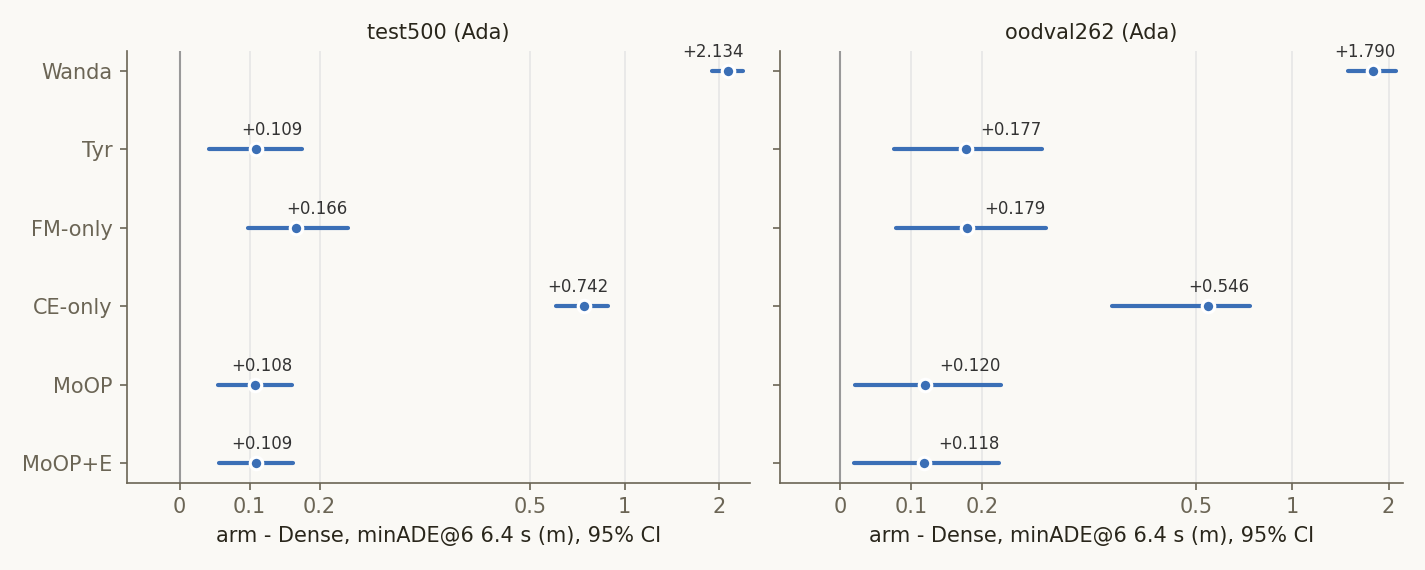
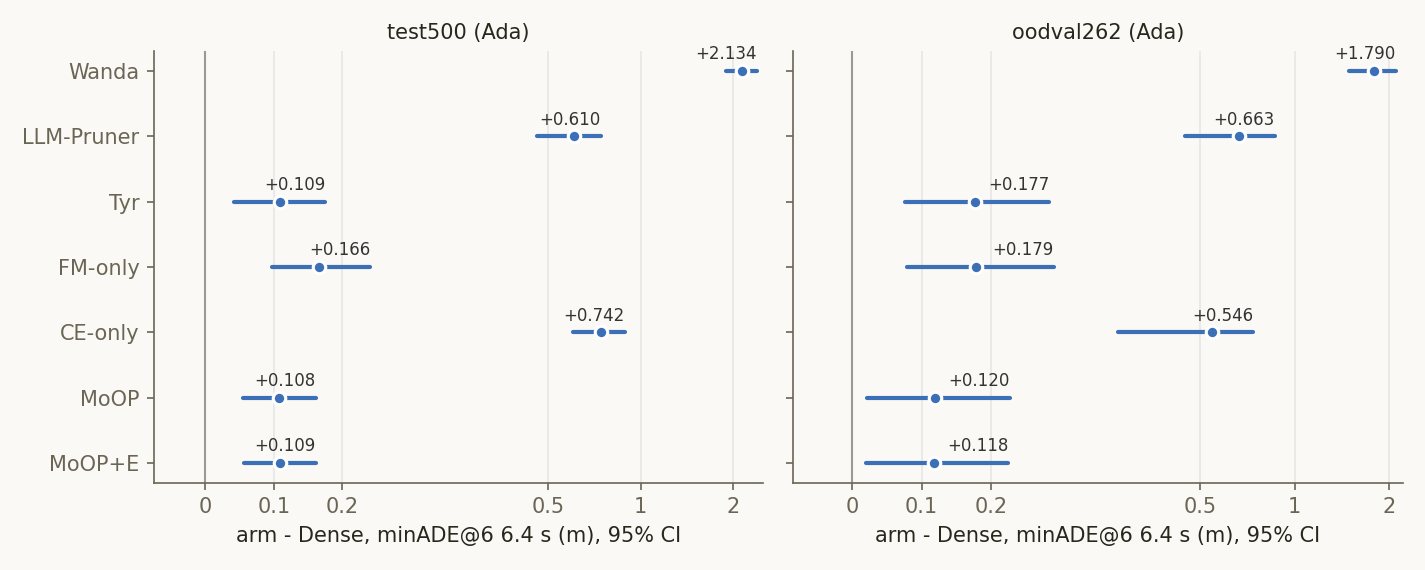
iclr27-rebuttal: CI report filled with the Ada re-runs (LLM-Pruner paper checkpoint, FM/CE short horizons; gates passed)

diff --git a/iclr27-rebuttal/reports/2026-11-09_openloop-lingoqa-ci.md b/iclr27-rebuttal/reports/2026-11-09_openloop-lingoqa-ci.md
@@ -1,34 +1,41 @@
 # Experiment: ICLR27 arm 개루프(Test500 · OOD-Val262) · LingoQA · CoC NLL의 95% CI
 
-2026-11-09 · 새 추론 없음(논문 표 1·표 4를 만든 Ada 런의 클립·질문별 기록을 다시 집계, CPU 81초)
-코드 `iclr27-rebuttal/code/ci_openloop_lingoqa.py`
-결과 `outputs/iclr27-rebuttal/ci_openloop_lingoqa/` (`summary.txt` = 아래 표 전체, `metrics.json`, `config.json`, `paired_minade6_vs_dense.png`)
+2026-11-09 · 논문 표 1·표 4를 만든 Ada 런의 클립·질문별 기록을 다시 집계(CPU)
+**개정(2026-11-09 밤):** 첫 판의 빈칸을 Ada 재실행으로 채웠다. 재실행 결과는 게이트를 통과한 경우에만 썼다(7절).
+- LLM-Pruner의 개루프 · LingoQA 행은 논문 체크포인트로 새로 돌렸다.
+- FM-only · CE-only의 1.6 · 3.2 s 칸을 채웠다.
+- 첫 판은 git 이력(`19d37e1`)에 있다.
+
+코드 `iclr27-rebuttal/code/ci_openloop_lingoqa.py`, 재실행 `iclr27-rebuttal/code/run_ada_fill.sh` · `gate_ada_fill.py`, 계획 `plans/2026-11-09_ada-fill-lp-fm-ce.md`
+결과 `outputs/iclr27-rebuttal/ci_openloop_lingoqa/` (`summary.txt` = 아래 표 전체, `metrics.json`, `config.json`, `paired_minade6_vs_dense.png`), 재실행 `outputs/iclr27-rebuttal/ada_fill/` (`gate/summary.txt`)
 
 ## Purpose
 
 - **질문 1.** 논문 표 1(개루프 Test500 · OOD-Val262)의 각 arm 수치에 95% CI를 붙이면 어떻게 되나. 1.6 · 3.2 · 6.4 s 전부, minADE@6 · minFDE@6 둘 다.
-- **질문 2.** 같은 클립에서 잰 arm끼리의 차이(arm − dense, arm − MoOP)는 어디까지 0과 갈리나. 특히 MoOP 대 Tyr · FM-only.
+- **질문 2.** 같은 클립에서 잰 arm끼리의 차이(arm − dense, arm − MoOP)는 어디까지 0과 갈리나. 특히 MoOP 대 Tyr · FM-only · LLM-Pruner.
 - **질문 3.** 표 4의 LingoQA 정확도와 CoC NLL 열에 CI를 붙이면 무엇이 남나.
 
 ## Setup
 
 | 항목 | 값 |
 |---|---|
-| arm (논문 이름 = 런) | Dense = `baseline_pred_{test,oodval}`, Wanda = `wanda_u40_v2_{test,oodval}`, Tyr = `tyr_u40_r_pred_{test,oodval}`, FM-only = `traj_u40_v2_{test,ood}`, CE-only = `coc_u40_v2_{test,ood}`, MoOP = `dual_u40_v2_pred_{test,oodval}`, MoOP+E = `dualexp_em93p75_{test,oodval}`. 전부 RTX 5880 Ada(설정 파일로 확인) |
-| 세트 | Test500 = `eval_sets/test_500.parquet` 500클립, OOD-Val262 = `ood_val.parquet` 262클립. FM-only · CE-only의 OOD 런은 OOD 전체를 돌린 것이라 262클립만 골라 씀 |
-| 개루프 지표 | rollout만(TF 없음), 8개 샘플 중 앞 6개의 최솟값 = minADE@6 · minFDE@6. 1.6 · 3.2 · 6.4 s. CoC 퇴화율 = `coc_degenerate` 평균 |
+| arm (논문 이름 = 런) | Dense = `baseline_pred_{test,oodval}`, Wanda = `wanda_u40_v2_{test,oodval}`, Tyr = `tyr_u40_r_pred_{test,oodval}`, MoOP = `dual_u40_v2_pred_{test,oodval}`, MoOP+E = `dualexp_em93p75_{test,oodval}`. LLM-Pruner · FM-only · CE-only = `iclr27-rebuttal/ada_fill/{lp_r50,fm_only,ce_only}_{test500,oodval262}`(11-09 재실행). 전부 RTX 5880 Ada(설정 파일로 확인) |
+| LLM-Pruner | 논문 체크포인트 `/mnt/nvme1n1/ad_vla/data/alpasim/drivers/lp_r50`(8월, soowon 빌드). NLL 행과 기존 Ada 10클립도 같은 체크포인트다. 다시 만든 `outputs/cvpr27/slim_lp_r50`은 A100 블록에만 쓴다 |
+| FM-only · CE-only | 기존 런(`traj_u40_v2_*`, `coc_u40_v2_*`)은 1.6 · 3.2 s 필드가 생기기 전 런이다. 같은 체크포인트로 다시 돌려 그 필드를 얻었고, 6.4 s 값은 기존과 비트 단위로 같다(7절) |
+| 세트 | Test500 = `eval_sets/test_500.parquet` 500클립, OOD-Val262 = `ood_val.parquet` 262클립 |
+| 개루프 지표 | rollout만(TF 없음), 8개 샘플 중 앞 6개의 최솟값 = minADE@6 · minFDE@6. 1.6 · 3.2 · 6.4 s. k = 8, seed 42, max_gen 256. CoC 퇴화율 = `coc_degenerate` 평균 |
 | LingoQA | Lingo-Judge, 500질문 = 100세그먼트 × 5질문, `lingo_vqa_<arm>/scored.json`의 `correct`. 기준선: 항상 "yes" 37.6%(항상 "no"는 37.0%) |
 | NLL (표 4) | dense 모델이 Test500에서 직접 낸 CoC를 각 arm에 teacher-forcing한 토큰당 NLL(nats), 클립 평균. `nll_dense_<tag>_test` |
 | CI | 부트스트랩 200,000회, percentile 95%, 시드 0. 개루프 · NLL은 클립 단위로, LingoQA는 세그먼트를 통째로 재표집(같은 장면의 질문 5개가 상관되므로). 짝 비교는 같은 클립(질문)에서 뺀 차이를 같은 재표집으로. p = 양측 부트스트랩 p(0회면 < 5e-06) |
 | 시드 점검 | 모든 짝 CI를 시드 1로 다시 계산해 "0을 벗어남" 판정이 바뀌는 칸을 셈 |
-| LLM-Pruner | 논문 행을 만든 Ada 클립별 기록이 없다(soowon 출력 폴더 삭제, Ada OOD는 10클립만 남음). 그래서 NLL 열(원본 `lp_r50`, Ada)에만 들어가고, 개루프 · LingoQA는 **A100 블록**에서 따로 본다: `outputs/cvpr27/a100/{dense,moop,lp_r50}_test2000`(Test500 클립만) · `_oodval`, `lingo_vqa_{dense,moop,lp_r50}`. A100 LLM-Pruner는 다시 만든 `outputs/cvpr27/slim_lp_r50`. Ada와 A100은 한 표에 섞지 않는다 |
-| 빠진 칸 | FM-only · CE-only Ada 런은 1.6 · 3.2 s 필드가 생기기 전 런이라 6.4 s만 있다(n/a) |
+| A100 블록 | 하드웨어 교차 확인: `outputs/cvpr27/a100/{dense,moop,lp_r50}_test2000`(Test500 클립만) · `_oodval`, `lingo_vqa_{dense,moop,lp_r50}`. Ada와 한 표에 섞지 않는다 |
 
 ## Results (Facts)
 
 ### 1. 논문 수치 재현
 
-표 1의 6.4 s에서 확인 가능한 28칸(Ada 기록이 없는 LLM-Pruner 4칸 제외) 중 27칸, 표 4의 13칸이 소수 셋째 자리까지 같다. 다른 한 칸은 Tyr OOD-Val262 minADE@6이다. 원자료는 1.17646이고 1.176으로 반올림해야 하는데 논문은 1.177이다(+0.001, 반올림 오류).
+- 표 1(6.4 s) 32칸 중 31칸, 표 4 14칸 전부가 소수 셋째 자리까지 같다.
+- 다른 한 칸은 Tyr OOD-Val262 minADE@6이다. 원자료는 1.17646이고 1.176으로 반올림해야 하는데 논문은 1.177이다(+0.001, 반올림 오류).
 
 ### 2. 개루프 절대값 (Ada, 평균 [95% 클립 부트스트랩 CI])
 
@@ -38,9 +45,10 @@
 |---|---|---|---|---|---|---|---|---|
 | Dense | 0.052 [0.047, 0.057] | 0.207 [0.189, 0.228] | 0.842 [0.765, 0.922] | 0.133 [0.119, 0.148] | 0.553 [0.496, 0.613] | 2.267 [2.009, 2.540] | 0.509 / 1.163 | 0.6% |
 | Wanda | 0.213 [0.195, 0.232] | 0.775 [0.710, 0.843] | 2.975 [2.729, 3.233] | 0.559 [0.510, 0.610] | 2.080 [1.891, 2.276] | 8.269 [7.532, 9.038] | 1.959 / 5.081 | 87.6% |
+| LLM-Pruner | 0.110 [0.099, 0.122] | 0.397 [0.356, 0.440] | 1.451 [1.312, 1.600] | 0.283 [0.251, 0.316] | 1.011 [0.896, 1.134] | 3.889 [3.485, 4.314] | 0.913 / 2.267 | 17.0% |
 | Tyr | 0.068 [0.060, 0.076] | 0.245 [0.220, 0.271] | 0.950 [0.862, 1.044] | 0.169 [0.150, 0.190] | 0.624 [0.555, 0.698] | 2.570 [2.289, 2.867] | 0.621 / 1.489 | 0.8% |
-| FM-only | n/a | n/a | 1.008 [0.917, 1.105] | n/a | n/a | 2.720 [2.423, 3.036] | 0.665 / 1.581 | 2.6% |
-| CE-only | n/a | n/a | 1.584 [1.433, 1.746] | n/a | n/a | 4.500 [4.022, 5.007] | 1.035 / 2.472 | 15.0% |
+| FM-only | 0.065 [0.058, 0.071] | 0.246 [0.223, 0.271] | 1.008 [0.917, 1.105] | 0.163 [0.146, 0.181] | 0.649 [0.581, 0.722] | 2.720 [2.423, 3.036] | 0.665 / 1.581 | 2.6% |
+| CE-only | 0.097 [0.087, 0.108] | 0.381 [0.345, 0.420] | 1.584 [1.433, 1.746] | 0.249 [0.224, 0.277] | 1.038 [0.931, 1.152] | 4.500 [4.022, 5.007] | 1.035 / 2.472 | 15.0% |
 | MoOP | 0.060 [0.055, 0.066] | 0.241 [0.220, 0.262] | 0.950 [0.869, 1.034] | 0.152 [0.136, 0.168] | 0.632 [0.571, 0.697] | 2.546 [2.276, 2.832] | 0.664 / 1.479 | 3.0% |
 | MoOP+E | 0.060 [0.055, 0.066] | 0.241 [0.221, 0.263] | 0.951 [0.871, 1.035] | 0.152 [0.136, 0.168] | 0.632 [0.571, 0.697] | 2.539 [2.272, 2.822] | 0.669 / 1.454 | 3.0% |
 
@@ -50,9 +58,10 @@
 |---|---|---|---|---|---|---|---|---|
 | Dense | 0.065 [0.056, 0.075] | 0.258 [0.219, 0.304] | 1.000 [0.847, 1.177] | 0.175 [0.148, 0.206] | 0.684 [0.562, 0.827] | 2.496 [2.041, 3.020] | 0.574 / 1.118 | 0.0% |
 | Wanda | 0.221 [0.193, 0.249] | 0.810 [0.712, 0.915] | 2.790 [2.461, 3.141] | 0.588 [0.513, 0.667] | 2.170 [1.891, 2.467] | 6.884 [5.983, 7.842] | 1.771 / 4.050 | 85.9% |
+| LLM-Pruner | 0.135 [0.116, 0.156] | 0.483 [0.413, 0.560] | 1.662 [1.432, 1.916] | 0.350 [0.296, 0.408] | 1.244 [1.048, 1.461] | 4.153 [3.525, 4.844] | 0.987 / 2.236 | 17.9% |
 | Tyr | 0.090 [0.078, 0.104] | 0.332 [0.287, 0.383] | 1.176 [1.012, 1.366] | 0.237 [0.202, 0.275] | 0.840 [0.706, 0.993] | 2.990 [2.504, 3.543] | 0.682 / 1.524 | 1.1% |
-| FM-only | n/a | n/a | 1.178 [1.011, 1.371] | n/a | n/a | 2.960 [2.475, 3.515] | 0.713 / 1.553 | 3.1% |
-| CE-only | n/a | n/a | 1.546 [1.328, 1.792] | n/a | n/a | 4.010 [3.364, 4.733] | 0.948 / 2.304 | 11.5% |
+| FM-only | 0.079 [0.069, 0.090] | 0.317 [0.274, 0.367] | 1.178 [1.011, 1.371] | 0.214 [0.184, 0.248] | 0.846 [0.710, 1.001] | 2.960 [2.475, 3.515] | 0.713 / 1.553 | 3.1% |
+| CE-only | 0.110 [0.094, 0.127] | 0.420 [0.361, 0.486] | 1.546 [1.328, 1.792] | 0.291 [0.248, 0.339] | 1.107 [0.933, 1.303] | 4.010 [3.364, 4.733] | 0.948 / 2.304 | 11.5% |
 | MoOP | 0.074 [0.065, 0.085] | 0.290 [0.249, 0.337] | 1.119 [0.958, 1.307] | 0.198 [0.169, 0.231] | 0.752 [0.625, 0.900] | 2.851 [2.362, 3.410] | 0.729 / 1.342 | 3.4% |
 | MoOP+E | 0.074 [0.064, 0.085] | 0.291 [0.250, 0.337] | 1.118 [0.957, 1.304] | 0.198 [0.169, 0.231] | 0.754 [0.628, 0.901] | 2.844 [2.357, 3.400] | 0.727 / 1.316 | 3.4% |
 
@@ -65,15 +74,17 @@
 | 세트 | arm | dADE 1.6 s | 3.2 s | 6.4 s | dFDE 1.6 s | 3.2 s | 6.4 s | 중앙값 dADE / dFDE 6.4 s | p ADE / FDE 6.4 s |
 |---|---|---|---|---|---|---|---|---|---|
 | Test500 | Wanda | +0.161 [+0.144, +0.179]* | +0.568 [+0.506, +0.632]* | +2.134 [+1.894, +2.383]* | +0.427 [+0.380, +0.475]* | +1.527 [+1.346, +1.714]* | +6.001 [+5.276, +6.755]* | +1.173 / +3.246 | < 5e-06 / < 5e-06 |
+| Test500 | LLM-Pruner | +0.058 [+0.048, +0.069]* | +0.189 [+0.153, +0.227]* | +0.610 [+0.484, +0.743]* | +0.150 [+0.122, +0.179]* | +0.458 [+0.355, +0.568]* | +1.621 [+1.259, +2.000]* | +0.260 / +0.625 | < 5e-06 / < 5e-06 |
 | Test500 | Tyr | +0.016 [+0.011, +0.021]* | +0.037 [+0.020, +0.056]* | +0.109 [+0.042, +0.175]* | +0.037 [+0.023, +0.051]* | +0.071 [+0.016, +0.127]* | +0.303 [+0.104, +0.501]* | +0.053 / +0.145 | 0.0013 / 0.0027 |
-| Test500 | FM-only | n/a | n/a | +0.166 [+0.098, +0.241]* | n/a | n/a | +0.453 [+0.230, +0.689]* | +0.096 / +0.250 | < 5e-06 / 3e-05 |
-| Test500 | CE-only | n/a | n/a | +0.742 [+0.605, +0.889]* | n/a | n/a | +2.232 [+1.795, +2.693]* | +0.308 / +0.980 | < 5e-06 / < 5e-06 |
+| Test500 | FM-only | +0.013 [+0.009, +0.017]* | +0.039 [+0.023, +0.056]* | +0.166 [+0.098, +0.241]* | +0.031 [+0.019, +0.043]* | +0.096 [+0.047, +0.150]* | +0.453 [+0.230, +0.689]* | +0.096 / +0.250 | < 5e-06 / 3e-05 |
+| Test500 | CE-only | +0.045 [+0.037, +0.054]* | +0.174 [+0.142, +0.207]* | +0.742 [+0.605, +0.889]* | +0.117 [+0.095, +0.140]* | +0.485 [+0.389, +0.587]* | +2.232 [+1.795, +2.693]* | +0.308 / +0.980 | < 5e-06 / < 5e-06 |
 | Test500 | MoOP | +0.008 [+0.005, +0.012]* | +0.033 [+0.021, +0.046]* | +0.108 [+0.055, +0.161]* | +0.019 [+0.010, +0.029]* | +0.079 [+0.040, +0.119]* | +0.279 [+0.097, +0.462]* | +0.052 / +0.107 | 4e-05 / 0.0024 |
 | Test500 | MoOP+E | +0.008 [+0.005, +0.012]* | +0.034 [+0.021, +0.046]* | +0.109 [+0.056, +0.161]* | +0.019 [+0.010, +0.029]* | +0.079 [+0.040, +0.119]* | +0.271 [+0.090, +0.454]* | +0.058 / +0.137 | 3e-05 / 0.003 |
 | OOD-Val262 | Wanda | +0.156 [+0.131, +0.182]* | +0.552 [+0.464, +0.645]* | +1.790 [+1.491, +2.107]* | +0.412 [+0.345, +0.484]* | +1.486 [+1.235, +1.753]* | +4.388 [+3.544, +5.286]* | +1.019 / +2.217 | < 5e-06 / < 5e-06 |
+| OOD-Val262 | LLM-Pruner | +0.070 [+0.053, +0.089]* | +0.224 [+0.167, +0.287]* | +0.663 [+0.478, +0.864]* | +0.174 [+0.128, +0.225]* | +0.559 [+0.401, +0.732]* | +1.657 [+1.146, +2.210]* | +0.326 / +0.706 | < 5e-06 / < 5e-06 |
 | OOD-Val262 | Tyr | +0.025 [+0.015, +0.036]* | +0.074 [+0.043, +0.106]* | +0.177 [+0.076, +0.284]* | +0.062 [+0.035, +0.090]* | +0.155 [+0.069, +0.246]* | +0.494 [+0.185, +0.820]* | +0.096 / +0.210 | 0.00051 / 0.0014 |
-| OOD-Val262 | FM-only | n/a | n/a | +0.179 [+0.079, +0.289]* | n/a | n/a | +0.464 [+0.180, +0.778]* | +0.101 / +0.306 | 0.00018 / 0.00098 |
-| OOD-Val262 | CE-only | n/a | n/a | +0.546 [+0.382, +0.738]* | n/a | n/a | +1.514 [+1.026, +2.078]* | +0.289 / +0.782 | < 5e-06 / < 5e-06 |
+| OOD-Val262 | FM-only | +0.014 [+0.006, +0.023]* | +0.059 [+0.030, +0.091]* | +0.179 [+0.079, +0.289]* | +0.039 [+0.016, +0.065]* | +0.161 [+0.076, +0.254]* | +0.464 [+0.180, +0.778]* | +0.101 / +0.306 | 0.00018 / 0.00098 |
+| OOD-Val262 | CE-only | +0.045 [+0.031, +0.060]* | +0.161 [+0.114, +0.214]* | +0.546 [+0.382, +0.738]* | +0.116 [+0.079, +0.158]* | +0.423 [+0.291, +0.573]* | +1.514 [+1.026, +2.078]* | +0.289 / +0.782 | < 5e-06 / < 5e-06 |
 | OOD-Val262 | MoOP | +0.009 [+0.003, +0.016]* | +0.032 [+0.006, +0.059]* | +0.120 [+0.021, +0.226]* | +0.023 [+0.004, +0.043]* | +0.068 [−0.009, +0.148] | +0.356 [+0.052, +0.682]* | +0.078 / +0.233 | 0.017 / 0.021 |
 | OOD-Val262 | MoOP+E | +0.009 [+0.003, +0.016]* | +0.032 [+0.007, +0.059]* | +0.118 [+0.020, +0.224]* | +0.023 [+0.004, +0.043]* | +0.069 [−0.006, +0.149] | +0.348 [+0.044, +0.675]* | +0.074 / +0.220 | 0.018 / 0.024 |
 
@@ -82,14 +93,16 @@
 | 세트 | arm | dADE 1.6 s | 3.2 s | 6.4 s | dFDE 1.6 s | 3.2 s | 6.4 s | 중앙값 dADE / dFDE 6.4 s | p ADE / FDE 6.4 s |
 |---|---|---|---|---|---|---|---|---|---|
 | Test500 | Wanda | +0.152 [+0.135, +0.170]* | +0.534 [+0.474, +0.597]* | +2.026 [+1.794, +2.268]* | +0.407 [+0.361, +0.456]* | +1.447 [+1.270, +1.632]* | +5.723 [+5.016, +6.457]* | +1.059 / +3.119 | < 5e-06 / < 5e-06 |
+| Test500 | LLM-Pruner | +0.050 [+0.040, +0.060]* | +0.156 [+0.122, +0.192]* | +0.502 [+0.388, +0.623]* | +0.131 [+0.104, +0.159]* | +0.379 [+0.283, +0.481]* | +1.343 [+1.012, +1.695]* | +0.189 / +0.522 | < 5e-06 / < 5e-06 |
 | Test500 | Tyr | +0.007 [+0.003, +0.012]* | +0.004 [−0.012, +0.021] | +0.001 [−0.055, +0.058] | +0.018 [+0.005, +0.032]* | −0.009 [−0.056, +0.041] | +0.024 [−0.141, +0.192] | −0.001 / +0.028 | 0.99 / 0.78 |
-| Test500 | FM-only | n/a | n/a | +0.058 [+0.001, +0.118]* | n/a | n/a | +0.174 [−0.004, +0.365] | +0.023 / +0.034 | 0.045 / 0.055 |
-| Test500 | CE-only | n/a | n/a | +0.634 [+0.509, +0.768]* | n/a | n/a | +1.954 [+1.555, +2.381]* | +0.237 / +0.734 | < 5e-06 / < 5e-06 |
+| Test500 | FM-only | +0.004 [+0.001, +0.008]* | +0.005 [−0.008, +0.020] | +0.058 [+0.001, +0.118]* | +0.012 [+0.002, +0.022]* | +0.017 [−0.025, +0.059] | +0.174 [−0.004, +0.365] | +0.023 / +0.034 | 0.045 / 0.055 |
+| Test500 | CE-only | +0.036 [+0.029, +0.045]* | +0.140 [+0.111, +0.171]* | +0.634 [+0.509, +0.768]* | +0.098 [+0.077, +0.120]* | +0.406 [+0.317, +0.500]* | +1.954 [+1.555, +2.381]* | +0.237 / +0.734 | < 5e-06 / < 5e-06 |
 | Test500 | MoOP+E | −0.000 [−0.000, +0.000] | +0.000 [−0.001, +0.001] | +0.001 [−0.002, +0.004] | −0.000 [−0.001, +0.001] | −0.000 [−0.003, +0.003] | −0.007 [−0.018, +0.003] | +0.000 / +0.001 | 0.56 / 0.19 |
 | OOD-Val262 | Wanda | +0.146 [+0.121, +0.173]* | +0.520 [+0.430, +0.616]* | +1.671 [+1.380, +1.980]* | +0.389 [+0.319, +0.463]* | +1.418 [+1.165, +1.686]* | +4.033 [+3.245, +4.872]* | +0.894 / +2.089 | < 5e-06 / < 5e-06 |
+| OOD-Val262 | LLM-Pruner | +0.061 [+0.043, +0.080]* | +0.193 [+0.134, +0.257]* | +0.543 [+0.372, +0.729]* | +0.151 [+0.103, +0.204]* | +0.492 [+0.336, +0.661]* | +1.302 [+0.851, +1.782]* | +0.225 / +0.560 | < 5e-06 / < 5e-06 |
 | OOD-Val262 | Tyr | +0.016 [+0.004, +0.028]* | +0.042 [+0.007, +0.079]* | +0.057 [−0.046, +0.157] | +0.039 [+0.009, +0.070]* | +0.088 [−0.005, +0.183] | +0.138 [−0.129, +0.391] | +0.002 / +0.108 | 0.27 / 0.29 |
-| OOD-Val262 | FM-only | n/a | n/a | +0.059 [−0.035, +0.148] | n/a | n/a | +0.108 [−0.134, +0.339] | +0.005 / +0.037 | 0.21 / 0.37 |
-| OOD-Val262 | CE-only | n/a | n/a | +0.427 [+0.277, +0.596]* | n/a | n/a | +1.158 [+0.740, +1.639]* | +0.221 / +0.551 | < 5e-06 / < 5e-06 |
+| OOD-Val262 | FM-only | +0.004 [−0.003, +0.013] | +0.027 [−0.003, +0.058] | +0.059 [−0.035, +0.148] | +0.016 [−0.008, +0.041] | +0.094 [+0.010, +0.179]* | +0.108 [−0.134, +0.339] | +0.005 / +0.037 | 0.21 / 0.37 |
+| OOD-Val262 | CE-only | +0.035 [+0.022, +0.050]* | +0.129 [+0.081, +0.183]* | +0.427 [+0.277, +0.596]* | +0.093 [+0.055, +0.135]* | +0.355 [+0.226, +0.499]* | +1.158 [+0.740, +1.639]* | +0.221 / +0.551 | < 5e-06 / < 5e-06 |
 | OOD-Val262 | MoOP+E | −0.000 [−0.000, +0.000] | +0.001 [−0.001, +0.002] | −0.002 [−0.007, +0.003] | −0.000 [−0.001, +0.001] | +0.002 [−0.003, +0.007] | −0.007 [−0.027, +0.012] | +0.000 / −0.002 | 0.54 / 0.45 |
 
 ![arm − Dense, minADE@6 6.4 s](figures/2026-11-09_openloop-paired-minade6-vs-dense.png)
@@ -100,6 +113,7 @@
 |---|---|---|---|---|
 | Dense | 73.2 [69.4, 76.8] | — | +4.4 [−0.4, +9.4] | +35.6 [+29.6, +41.4]* |
 | Wanda | 9.2 [6.8, 11.8] | −64.0 [−68.6, −59.4]* | −59.6 [−64.2, −55.0]* | −28.4 [−33.8, −23.2]* |
+| LLM-Pruner | 44.8 [40.0, 49.6] | −28.4 [−34.0, −23.0]* | −24.0 [−29.4, −18.6]* | +7.2 [+0.2, +14.0]* |
 | Tyr | 34.2 [30.0, 38.6] | −39.0 [−44.6, −33.4]* | −34.6 [−40.4, −28.6]* | −3.4 [−10.2, +3.6] |
 | FM-only | 37.0 [32.4, 41.8] | −36.2 [−41.6, −31.0]* | −31.8 [−37.2, −26.4]* | −0.6 [−7.2, +6.0] |
 | CE-only | 30.2 [25.6, 34.8] | −43.0 [−48.4, −37.4]* | −38.6 [−44.0, −33.2]* | −7.4 [−14.2, −0.6]* |
@@ -117,40 +131,60 @@
 | CE-only | 0.313 [0.286, 0.340] | 0.218 | +0.137 [+0.120, +0.156]* | +0.060 [+0.046, +0.076]* |
 | MoOP | 0.252 [0.228, 0.278] | 0.165 | +0.077 [+0.063, +0.091]* | — |
 
-### 6. A100 블록 — LLM-Pruner (Ada 표와 섞지 말 것)
+### 6. A100 블록 — 하드웨어 교차 확인 (Ada 표와 섞지 말 것)
 
-개루프 절대값 (6.4 s 위주, 전 구간은 `summary.txt`)
+LLM-Pruner는 여기서만 다시 만든 체크포인트(`outputs/cvpr27/slim_lp_r50`)다. 전 구간 표는 `summary.txt`에 있다.
 
-| 세트 | arm | minADE@6 1.6 s | 3.2 s | 6.4 s | minFDE@6 1.6 s | 3.2 s | 6.4 s | CoC 퇴화 |
-|---|---|---|---|---|---|---|---|---|
-| Test500 | Dense | 0.052 [0.047, 0.057] | 0.207 [0.188, 0.227] | 0.844 [0.767, 0.925] | 0.132 [0.118, 0.147] | 0.551 [0.494, 0.611] | 2.272 [2.012, 2.545] | 1.0% |
-| Test500 | MoOP | 0.061 [0.055, 0.066] | 0.241 [0.221, 0.263] | 0.960 [0.878, 1.046] | 0.152 [0.136, 0.168] | 0.634 [0.572, 0.700] | 2.590 [2.314, 2.884] | 3.4% |
-| Test500 | LLM-Pruner | 0.110 [0.098, 0.122] | 0.393 [0.353, 0.436] | 1.452 [1.311, 1.602] | 0.282 [0.251, 0.315] | 1.006 [0.891, 1.130] | 3.879 [3.469, 4.313] | 16.4% |
-| OOD-Val262 | Dense | 0.065 [0.056, 0.075] | 0.259 [0.220, 0.304] | 1.001 [0.849, 1.178] | 0.175 [0.148, 0.206] | 0.685 [0.564, 0.828] | 2.497 [2.043, 3.021] | 0.4% |
-| OOD-Val262 | MoOP | 0.073 [0.064, 0.082] | 0.284 [0.246, 0.327] | 1.101 [0.946, 1.282] | 0.194 [0.167, 0.223] | 0.734 [0.614, 0.876] | 2.798 [2.321, 3.343] | 4.2% |
-| OOD-Val262 | LLM-Pruner | 0.132 [0.114, 0.152] | 0.470 [0.404, 0.544] | 1.612 [1.389, 1.860] | 0.344 [0.293, 0.399] | 1.203 [1.013, 1.415] | 4.010 [3.395, 4.688] | 17.2% |
+| 세트 | arm | A100 minADE@6 / minFDE@6 6.4 s | Ada(논문 행) | A100 CoC 퇴화 |
+|---|---|---|---|---|
+| Test500 | Dense | 0.844 / 2.272 | 0.842 / 2.267 | 1.0% |
+| Test500 | MoOP | 0.960 / 2.590 | 0.950 / 2.546 | 3.4% |
+| Test500 | LLM-Pruner | 1.452 / 3.879 | 1.451 / 3.889 | 16.4% |
+| OOD-Val262 | Dense | 1.001 / 2.497 | 1.000 / 2.496 | 0.4% |
+| OOD-Val262 | MoOP | 1.101 / 2.798 | 1.119 / 2.851 | 4.2% |
+| OOD-Val262 | LLM-Pruner | 1.612 / 4.010 | 1.662 / 4.153 | 17.2% |
 
-짝 차이 LLM-Pruner − MoOP (A100): Test500 6.4 s dADE +0.492 [+0.376, +0.617]*, dFDE +1.289 [+0.948, +1.652]*. OOD-Val262 dADE +0.511 [+0.353, +0.686]*, dFDE +1.212 [+0.787, +1.670]*. 1.6 · 3.2 s도 전부 0을 벗어남.
+- 짝 차이 LLM-Pruner − MoOP (A100): Test500 6.4 s dADE +0.492 [+0.376, +0.617]\*, OOD-Val262 +0.511 [+0.353, +0.686]\*. 1.6 · 3.2 s도 전부 0을 벗어난다.
+- LingoQA (A100): Dense 72.6 [68.8, 76.4], MoOP 66.6 [62.2, 71.0], LLM-Pruner 45.4 [40.6, 50.4].
+  - MoOP − LLM-Pruner +21.2 pp [+15.4, +26.8]\*.
+  - **MoOP − Dense −6.0 pp [−10.8, −1.2]\***.
 
-LingoQA (A100): Dense 72.6 [68.8, 76.4], MoOP 66.6 [62.2, 71.0], LLM-Pruner 45.4 [40.6, 50.4]. MoOP − LLM-Pruner +21.2 pp [+15.4, +26.8]*. LLM-Pruner − 항상 "yes" +7.8 pp [+1.0, +14.6]*. **MoOP − Dense −6.0 pp [−10.8, −1.2]\***.
+### 7. 재실행 게이트 (`outputs/iclr27-rebuttal/ada_fill/gate/summary.txt`)
 
-A100 대 논문(Ada): LLM-Pruner Test500 1.452 / 3.879 (논문 1.451 / 3.889), OOD-Val262 1.612 / 4.010 (논문 1.662 / 4.153), LingoQA 45.4 (논문 44.8). MoOP는 A100에서 Test500 0.960(Ada 0.950), OOD 1.101(Ada 1.119), LingoQA 66.6(Ada 68.8).
-
-### 7. 시드 점검
-
-짝 비교 전 칸(Ada 개루프 두 세트, A100 개루프 두 세트, LingoQA Ada · A100, NLL)에서 시드 0 → 1로 바꿔 "0을 벗어남" 판정이 바뀐 칸은 없다. 이 스크립트의 CI는 `analyze_a100.boot_ci`와 같은 재표집을 써서 같은 값을 낸다(MoOP − Dense Test500 [0.0550, 0.1610]으로 확인).
+- 실행: 2026-11-09 21:59–23:45 KST, RTX 5880 Ada 4–7번 카드, 19개 작업 모두 완료(실패 0).
+- **G1 PASS:** FM-only · CE-only 재실행의 `ade_rollout_k` · `fde_rollout_k` · `gen_coc`가 기존 런과 Test500 500/500, OOD-Val262 262/262 클립에서 같다(arm 둘 다). 1.6 · 3.2 s 필드는 전 클립에 있다.
+- **G2 PASS:** 논문 체크포인트 LLM-Pruner가 논문 수치를 재현한다.
+  - Test500 1.4513 / 3.8885(논문 1.451 / 3.889).
+  - OOD-Val262 1.6622 / 4.1534(논문 1.662 / 4.153).
+  - LingoQA 44.8%(논문 44.8%).
+  - 기존 Ada OOD 10클립은 전 필드가 비트 단위로 같다.
+- 시드 점검: 짝 비교 전 칸에서 시드 0 → 1로 바꿔 "0을 벗어남" 판정이 바뀐 칸은 없다. CI는 `analyze_a100.boot_ci`와 같은 재표집이다(MoOP − Dense Test500 [0.0550, 0.1610]으로 확인).
 
 ## Analysis (Opinion)
 
-- **비교는 짝 CI로 해야 한다.** 절대값 CI는 클립 난이도 퍼짐(꼬리가 긴 분포)을 반영해 넓고, Dense와 MoOP의 CI도 겹친다. 그런데 모든 arm이 같은 클립을 풀었으므로 짝 차이에서는 난이도가 상쇄된다. MoOP − Dense 짝 CI(Test500 6.4 s 폭 0.106 m)는 MoOP 절대값 CI 하나(0.165 m)보다도 좁다. 두 절대값 CI가 겹치는지로 판정하는 것보다 훨씬 덜 보수적이다. 논문 표에 CI를 넣는다면 절대값 옆에 "Δ vs Dense [CI]"를 두는 편이 정확하다. 절대값 CI가 겹친다는 이유로 "차이 없음"이라 쓰면 안 된다.
-- **MoOP는 dense보다 확실히 나쁘다.** 6.4 s minADE@6 +0.108 m(Test500), +0.120 m(OOD), OOD 3.2 s minFDE 한 칸(+0.068 [−0.009, +0.148])을 빼면 모든 구간에서 유의하다. "dense에 가깝다"는 격차 크기로 말해야 하고 "유의한 차이가 없다"고 말하면 안 된다. 40% 압축의 대가로 정상이다.
-- **MoOP 대 Tyr: 6.4 s에서는 구분되지 않는다.** Test500 Δ +0.001 [−0.055, +0.058], OOD +0.057 [−0.046, +0.157]. 1.6 s에서는 Tyr가 두 세트 모두 유의하게 나쁘다(ADE +0.007 / +0.016, FDE +0.018 / +0.039). OOD 3.2 s ADE도 그렇다. 즉 운전에서의 MoOP 우위는 단기 구간에만 있다. 6.4 s 표 1 숫자만으로 "MoOP > Tyr"를 주장할 수는 없다. 차이는 언어 쪽(LingoQA +34.6 pp, NLL −0.264)에 있다. 폐루프에서 본 그림(tyr_u40_r ≈ MoOP, 우위는 언어뿐)과 같다.
-- **MoOP 대 FM-only는 경계선이다.** Test500 6.4 s minADE만 +0.058 [+0.001, +0.118](p = 0.045)이고, minFDE와 OOD는 0을 포함한다. 비교가 여럿이므로 이 한 칸을 "MoOP가 운전에서 FM-only를 이긴다"의 근거로 쓰기엔 약하다. FM-only가 언어를 잃는 대가(LingoQA −31.8 pp, NLL +0.333)는 확실하다.
+- **비교는 짝 CI로 해야 한다.**
+  - 절대값 CI는 클립 난이도 퍼짐(꼬리가 긴 분포)을 반영해 넓다. 그래서 Dense와 MoOP의 CI도 겹친다.
+  - 그런데 모든 arm이 같은 클립을 풀었으므로, 짝 차이에서는 난이도가 상쇄된다. MoOP − Dense 짝 CI(Test500 6.4 s 폭 0.106 m)는 MoOP 절대값 CI 하나(0.165 m)보다도 좁다.
+  - 두 절대값 CI가 겹치는지로 판정하는 것보다 훨씬 덜 보수적이다. 논문 표에 CI를 넣는다면 절대값 옆에 "Δ vs Dense [CI]"를 두는 편이 정확하다.
+  - 절대값 CI가 겹친다는 이유로 "차이 없음"이라 쓰면 안 된다.
+- **MoOP는 dense보다 확실히 나쁘다.**
+  - 6.4 s minADE@6이 Test500 +0.108 m, OOD +0.120 m 나쁘다. OOD 3.2 s minFDE 한 칸(+0.068 [−0.009, +0.148])을 빼면 모든 구간에서 유의하다.
+  - "dense에 가깝다"는 격차 크기로 말해야 하고, "유의한 차이가 없다"고 말하면 안 된다. 40% 압축의 대가로는 정상이다.
+- **MoOP 대 Tyr · FM-only: 6.4 s에서는 구분되지 않고, MoOP의 우위는 단기 구간에 있다.**
+  - Tyr − MoOP는 6.4 s에서 Test500 +0.001 [−0.055, +0.058], OOD +0.057 [−0.046, +0.157]이다. 그런데 1.6 s에서는 두 세트 모두 유의하다(ADE +0.007 / +0.016, FDE +0.018 / +0.039). OOD 3.2 s ADE도 유의하다.
+  - FM-only − MoOP도 같은 모양이다. 새로 채운 1.6 s가 Test500에서 유의하고(ADE +0.004, FDE +0.012), OOD 3.2 s minFDE도 유의하다(+0.094). 6.4 s는 Test500 minADE만 경계(+0.058, p = 0.045)이고 나머지는 0을 포함한다.
+  - 즉 표 1의 6.4 s 숫자만으로 "MoOP > Tyr, FM-only"를 주장할 수는 없다. 차이는 언어 쪽(LingoQA +34.6 · +31.8 pp, NLL −0.264 · −0.333)과 단기 궤적에 있다. 폐루프에서 본 그림(tyr_u40_r ≈ MoOP, 우위는 언어뿐)과 같다.
+- **LLM-Pruner는 운전과 언어 모두에서 MoOP보다 확실히 나쁘다** (논문 체크포인트, Ada).
+  - 6.4 s minADE@6 +0.502 m(Test500), +0.543 m(OOD)이고, 모든 구간에서 유의하다. LingoQA는 −24.0 pp다.
+  - LingoQA는 항상 "yes" 기준선보다 겨우 높다(+7.2 pp [+0.2, +14.0]).
+  - A100에서 다시 만든 체크포인트는 OOD에서 0.05 m 낮게 나온다(1.612 대 1.662). 재구성 차이인지 카드 차이인지는 이 데이터로 가를 수 없다. 논문 행은 이제 같은 체크포인트 · 같은 카드로 재현되었으니 상관없다.
 - **MoOP+E는 MoOP와 같다.** 모든 구간에서 |Δ| ≤ 0.007 m이고 CI가 ±0.03 m 안에 있다. expert MLP 93.75% 절단은 개루프에서 비용이 보이지 않는다.
-- **Tyr · FM-only의 LingoQA는 찍기 수준이다.** 항상 "yes"(37.6%)와 구분되지 않는다(−3.4, −0.6 pp, CI가 0 포함). CE-only는 그보다도 유의하게 낮다(−7.4 pp). 표 4 본문에서 "언어 능력 상실"을 말할 때 이 기준선을 함께 쓰면 설득력이 크다.
-- **MoOP 대 Dense의 LingoQA 차이는 카드에 따라 판정이 갈린다.** Ada −4.4 pp [−9.4, +0.4](유의하지 않음), A100 −6.0 pp [−10.8, −1.2](유의). 같은 체크포인트인데 카드만 바꿔도 MoOP가 2.2 pp 움직인다. "LingoQA를 잃지 않는다"고 쓰지 말고 "dense 정확도의 94%를 유지(−4.4 pp, CI의 나쁜 쪽 끝 −9.4 pp)"처럼 크기로 쓰는 편이 안전하다.
-- **LLM-Pruner 수치는 아직 논문 행 그대로 CI를 줄 수 없다.** A100에서 다시 만든 체크포인트는 Test500에서 논문과 거의 같다(1.452 대 1.451). 하지만 OOD는 0.05 m 낮다(1.612 대 1.662). MoOP의 Ada↔A100 차이(±0.02)보다 크다. 재구성 차이인지 카드 차이인지는 Ada에서 다시 돌려봐야 안다. 결론(LLM-Pruner가 MoOP보다 운전 +0.49–0.51 m, 언어 −21 pp로 확실히 나쁨)은 어느 쪽이든 바뀌지 않는다.
+- **Tyr · FM-only의 LingoQA는 찍기 수준이다.**
+  - 항상 "yes"(37.6%)와 구분되지 않는다(−3.4, −0.6 pp, CI가 0 포함). CE-only는 그보다도 유의하게 낮다(−7.4 pp).
+  - 표 4 본문에서 "언어 능력 상실"을 말할 때 이 기준선을 함께 쓰면 설득력이 크다.
+- **MoOP 대 Dense의 LingoQA 차이는 카드에 따라 판정이 갈린다.**
+  - Ada −4.4 pp [−9.4, +0.4](유의하지 않음), A100 −6.0 pp [−10.8, −1.2](유의). 같은 체크포인트인데 카드만 바꿔도 MoOP가 2.2 pp 움직인다.
+  - "LingoQA를 잃지 않는다"고 쓰지 말고 "dense 정확도의 94%를 유지(−4.4 pp, CI의 나쁜 쪽 끝 −9.4 pp)"처럼 크기로 쓰는 편이 안전하다.
 - **다음 단계.**
   1. 논문 표 1의 Tyr OOD minADE를 1.177 → 1.176으로 고친다.
-  2. 원하면 Ada에서 `outputs/cvpr27/slim_lp_r50`을 Test500 · OOD-Val262 · LingoQA로 다시 돌린다. 논문 LLM-Pruner 행에 같은 카드의 CI를 붙이고, 재구성본이 원본과 같은지도 확인한다. FM-only · CE-only도 같이 돌리면 1.6 · 3.2 s 칸이 채워진다. 셋 다 같은 카드에서 결정적이므로, 기존 6.4 s 값과 비트 단위로 같아야 한다는 것이 점검 기준이다.
-  3. 리버틀 문장은 "Δ vs Dense / vs MoOP [95% CI]" 형식으로 쓴다. 6.4 s에서 MoOP ≈ Tyr ≈ FM-only(운전)이고 언어에서 MoOP만 남는다는 구도가 숫자와 맞다.
+  2. 리버틀 문장은 "Δ vs Dense / vs MoOP [95% CI]" 형식으로 쓴다. 6.4 s에서 MoOP ≈ Tyr ≈ FM-only(운전)이고 언어에서 MoOP만 남는다는 구도가 숫자와 맞다. 단기(1.6 s) 궤적에서는 MoOP가 Tyr · FM-only보다 유의하게 낫다는 점을 보조 근거로 쓸 수 있다.

diff --git a/iclr27-rebuttal/README.md b/iclr27-rebuttal/README.md
@@ -14,7 +14,7 @@ Layout (same as `cvpr27/`):
 | date | topic | plan | code | report | outputs |
 |---|---|---|---|---|---|
 | 2026-11-09 | Combination rules (rank-max / rank-mean / raw-mean / raw-max, l0keep) on Test500: never run as Test500, cut from the A100 test_2000 rows; raw-mean still worse (+0.054\*), raw-max n.s. on Test500 (+0.013) though +0.052\* on test_2000; Test500 looks unfavourable to rank-max; Ada has rank-max / raw-max variants only | — | `code/combination_rules_test500.py` | `reports/2026-11-09_combination-rules-test500.md` | `outputs/iclr27-rebuttal/combination_rules_test500/` |
-| 2026-11-09 | 95% CIs for paper Table 1 (open loop Test500 / OOD-Val262, all horizons) and Table 4 (LingoQA segment-clustered, CoC NLL), absolute + paired vs Dense / MoOP; MoOP ≈ Tyr ≈ FM-only at 6.4 s, MoOP vs Dense LingoQA n.s. on Ada but sig. on A100, Tyr OOD 1.177 → 1.176; LLM-Pruner only as an A100 block | — | `code/ci_openloop_lingoqa.py` | `reports/2026-11-09_openloop-lingoqa-ci.md` | `outputs/iclr27-rebuttal/ci_openloop_lingoqa/` |
+| 2026-11-09 | 95% CIs for paper Table 1 (open loop Test500 / OOD-Val262, all horizons) and Table 4 (LingoQA segment-clustered, CoC NLL), absolute + paired vs Dense / MoOP; MoOP ≈ Tyr ≈ FM-only at 6.4 s, MoOP vs Dense LingoQA n.s. on Ada but sig. on A100, Tyr OOD 1.177 → 1.176; 11-09 night: LLM-Pruner (paper checkpoint) and FM-only / CE-only 1.6 · 3.2 s filled by an Ada re-run that passed its gates (bit-identical / paper reproduced) | `plans/2026-11-09_ada-fill-lp-fm-ce.md` | `code/ci_openloop_lingoqa.py`, `code/run_ada_fill.sh`, `code/gate_ada_fill.py` | `reports/2026-11-09_openloop-lingoqa-ci.md` | `outputs/iclr27-rebuttal/ci_openloop_lingoqa/` |
 | 2026-11-09 | Alpamayo 2 Super + ICLR27 MoOP on test500: dense / MoOP / MoOP l0keep / FM-only / CE-only (34.1% removed). MoOP +11.8%* vs dense, = FM-only, beats CE-only (−0.074*); l0keep no effect; CoC intact | `plans/2026-11-09_a2-moop-test500.md` | `code/make_a2_moop_masks.py`, `code/run_a2_openloop.py`, `code/run_a2_worker.sh`, `code/run_a2_arms.sh`, `code/analyze_a2_test500.py` | `reports/2026-11-09_a2-moop-test500.md` | `outputs/a2_moop/`, `outputs/a2_test500_*/`, `outputs/a2_test500_analysis/` |
 | 2026-11-09 | OOD-train (1,271 clips) open loop + reference-CoC NLL for the 8 ICLR27 arms on KISTI Hangang GH200: same rank order as paper OOD-Val262; MoOP beats every compressed baseline at 6.4 s (Tyr +0.139\*, FM-only +0.146\*, n.s. on OOD-Val262), MoOP+E = MoOP, MoOP closest to Dense on NLL (+0.030\*); GH200-only table | `plans/2026-11-09_oodtrain-iclr27-arms-gh200.md` | `code/push_oodtrain_gh200.sh`, `code/launch_oodtrain_gh200.sh`, `code/pull_oodtrain_gh200.sh`, `code/analyze_oodtrain_gh200.py`; `cvpr27/code/eval_a100.sbatch` (arms + `EXP_ROOT`) | `reports/2026-11-09_oodtrain-iclr27-arms-gh200.md` | `outputs/iclr27-rebuttal/gh200/` |
 | 2026-11-08 | Closed loop, ICLR27 (pre-l0keep) arms on Origin150 / Hard100: MoOP, FM-only, CE-only, Wanda, Tyr, LLM-Pruner (gathered from the 11-07 CI report) | — | — | `reports/2026-11-08_closedloop-iclr27-arms.md` | `outputs/cvpr27/closedloop_ci_2026-11-07/` |
